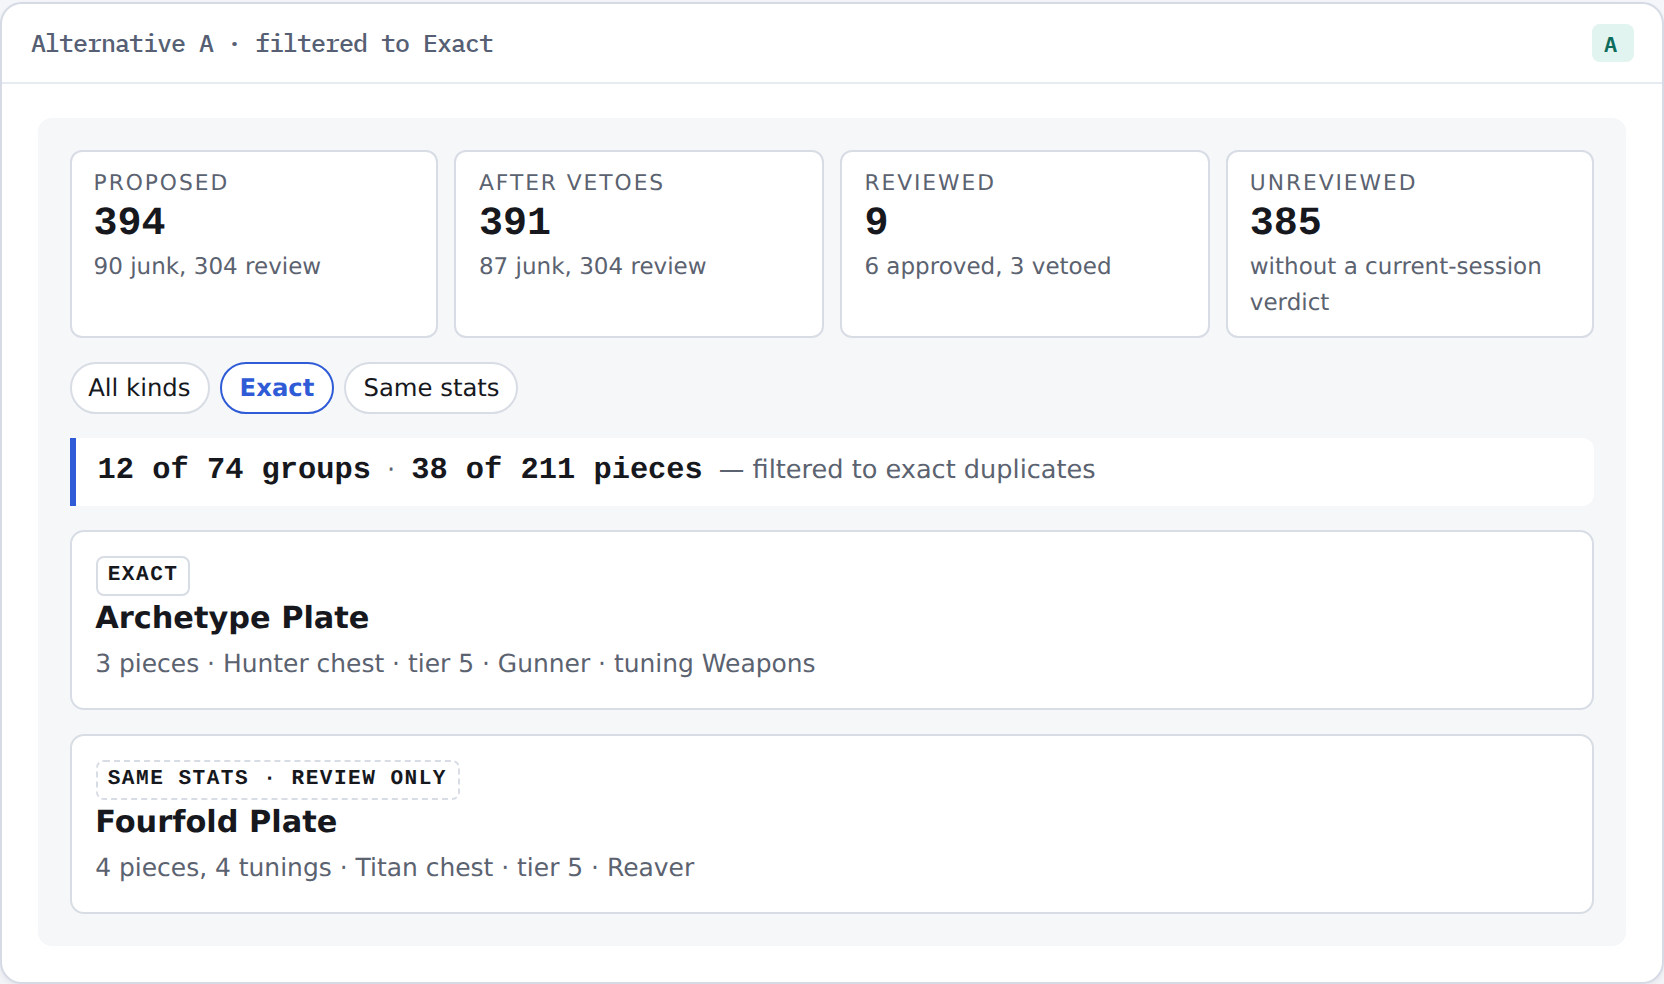
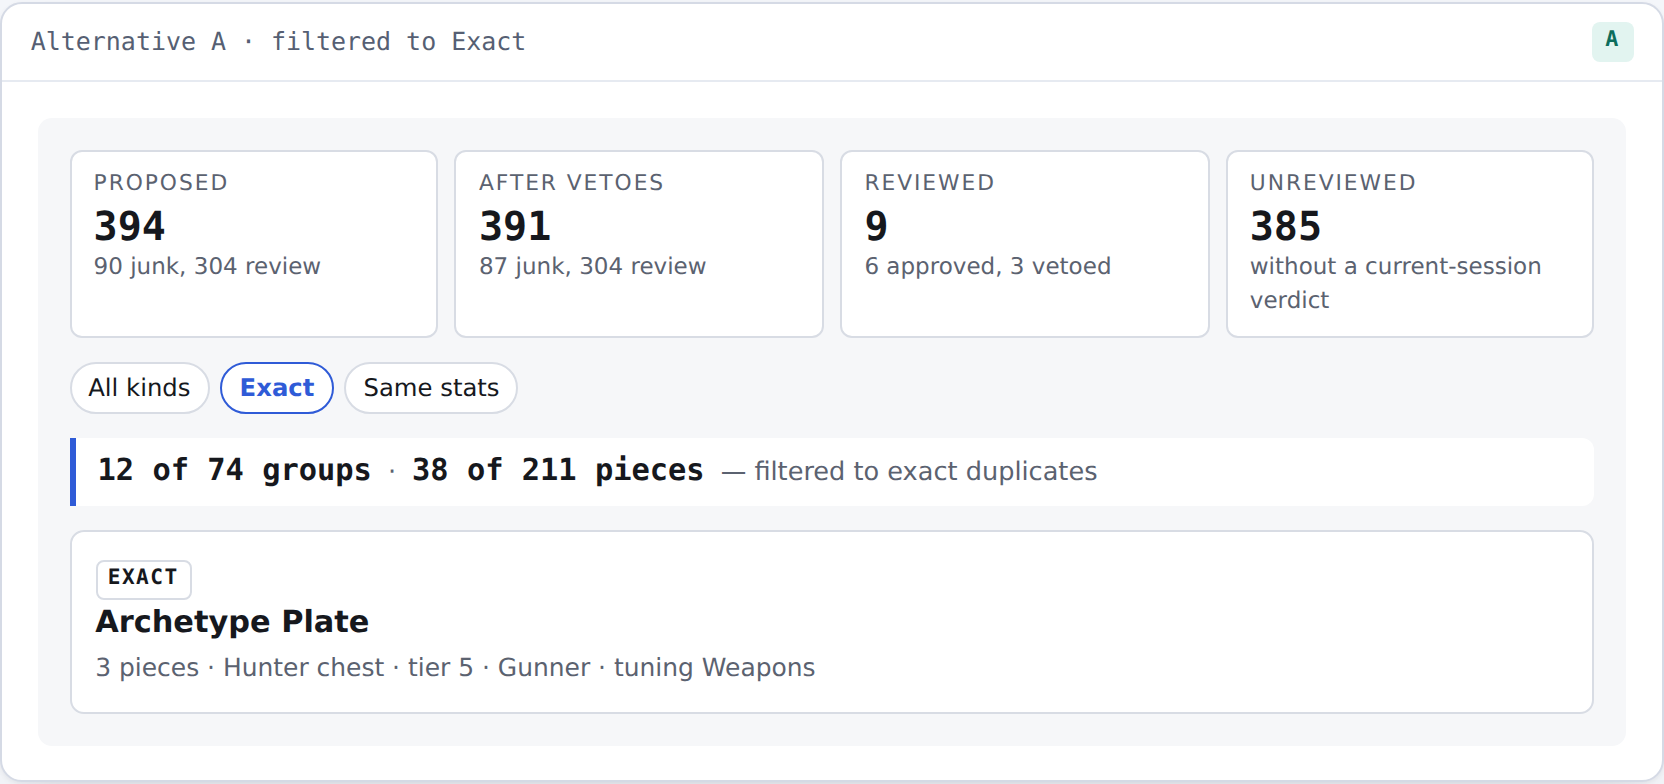
Fix specimen filter coherence and make the artifact standalone
The Exact-filtered specimens listed a same-stat group while claiming to
be filtered to exact duplicates -- a self-contradiction in a document
about filter and count coherence. Exact-filtered specimens now list only
exact groups; the kind hierarchy moved to a new unfiltered specimen,
which is the state where both kinds legitimately appear.

The committed HTML also carried the pre-correction banner copy and the
superseded denominator wording, so it contradicted the design record it
illustrates.

The file was authored for a publisher that supplies the document wrapper,
so committing it left no doctype (quirks mode) and a remote font request
on open. Now standalone: doctype, head, system font stacks, and no
network requests. Stills re-rendered to match.

diff --git a/docs/evidence/issue-113/count-treatments.html b/docs/evidence/issue-113/count-treatments.html
@@ -1,5 +1,11 @@
+<!doctype html>
+<html lang="en">
+<head>
+<meta charset="utf-8">
+<meta name="viewport" content="width=device-width,initial-scale=1">
 <title>Groups, Pieces, Proposals</title>
-<link rel="stylesheet" href="https://fonts.googleapis.com/css2?family=IBM+Plex+Sans:ital,wght@0,400;0,500;0,600;1,400&family=IBM+Plex+Mono:wght@400;500;600&display=swap">
+<!-- No external requests: this file is opened straight from the repo.
+     Type falls back through the stacks declared below. -->
 <style>
 /* ---- page chrome tokens: neutral biased toward the review UI's accent ---- */
 :root{
@@ -35,7 +41,7 @@
 *{box-sizing:border-box}
 body{
   background:var(--ground); color:var(--ink); margin:0;
-  font:400 15px/1.6 "IBM Plex Sans",ui-sans-serif,system-ui,sans-serif;
+  font:400 15px/1.6 ui-sans-serif,system-ui,-apple-system,"Segoe UI",sans-serif;
   -webkit-font-smoothing:antialiased;
 }
 .wrap{max-width:60rem;margin:0 auto;padding:3.5rem 1.5rem 6rem;
@@ -45,16 +51,16 @@ h1{font-size:2.1rem;font-weight:600;letter-spacing:-.02em}
 h2{font-size:1.4rem;font-weight:600;letter-spacing:-.015em}
 h3{font-size:1.02rem;font-weight:600}
 p{margin:0}
-code,.mono{font-family:"IBM Plex Mono",ui-monospace,SFMono-Regular,Menlo,monospace}
+code,.mono{font-family:ui-monospace,SFMono-Regular,Menlo,Consolas,monospace}
 code{font-size:.88em;background:var(--rule-soft);padding:.1em .35em;border-radius:3px}
 
-.eyebrow{font:600 .72rem/1 "IBM Plex Mono",monospace;letter-spacing:.13em;
+.eyebrow{font:600 .72rem/1 ui-monospace,SFMono-Regular,Menlo,monospace;letter-spacing:.13em;
   text-transform:uppercase;color:var(--muted)}
 header.top{display:flex;flex-direction:column;gap:.85rem;
   border-bottom:1px solid var(--rule);padding-bottom:2rem}
 header.top .lede{font-size:1.05rem;color:var(--muted);max-width:62ch}
 .meta{display:flex;flex-wrap:wrap;gap:.4rem .5rem;margin-top:.35rem}
-.tag{font:500 .72rem/1 "IBM Plex Mono",monospace;letter-spacing:.04em;
+.tag{font:500 .72rem/1 ui-monospace,SFMono-Regular,Menlo,monospace;letter-spacing:.04em;
   border:1px solid var(--rule);border-radius:99px;padding:.4em .7em;color:var(--muted)}
 
 section{display:flex;flex-direction:column;gap:1.1rem}
@@ -66,7 +72,7 @@ section{display:flex;flex-direction:column;gap:1.1rem}
 .ev{display:grid;grid-template-columns:repeat(auto-fit,minmax(13rem,1fr));gap:.75rem}
 .ev div{background:var(--card);border:1px solid var(--rule);border-radius:9px;
   padding:.9rem 1rem;display:flex;flex-direction:column;gap:.3rem;box-shadow:var(--shadow)}
-.ev .n{font:600 1.5rem/1 "IBM Plex Mono",monospace;font-variant-numeric:tabular-nums;
+.ev .n{font:600 1.5rem/1 ui-monospace,SFMono-Regular,Menlo,monospace;font-variant-numeric:tabular-nums;
   letter-spacing:-.02em}
 .ev .k{font-size:.82rem;color:var(--muted)}
 .ev .bad .n{color:var(--bad)}
@@ -76,8 +82,8 @@ section{display:flex;flex-direction:column;gap:1.1rem}
   overflow:hidden;box-shadow:var(--shadow)}
 .spec > figcaption{display:flex;align-items:center;justify-content:space-between;
   gap:1rem;padding:.6rem .9rem;border-bottom:1px solid var(--rule-soft);
-  font:500 .78rem/1.3 "IBM Plex Mono",monospace;color:var(--muted);flex-wrap:wrap}
-.spec .badge{font:600 .68rem/1 "IBM Plex Mono",monospace;letter-spacing:.08em;
+  font:500 .78rem/1.3 ui-monospace,SFMono-Regular,Menlo,monospace;color:var(--muted);flex-wrap:wrap}
+.spec .badge{font:600 .68rem/1 ui-monospace,SFMono-Regular,Menlo,monospace;letter-spacing:.08em;
   padding:.4em .6em;border-radius:4px;text-transform:uppercase}
 .badge.base{background:var(--rule-soft);color:var(--muted)}
 .badge.aa{background:var(--a-soft);color:var(--a)}
@@ -136,7 +142,7 @@ section{display:flex;flex-direction:column;gap:1.1rem}
 .cmp{width:100%;border-collapse:collapse;font-size:.9rem}
 .cmp th,.cmp td{text-align:left;padding:.6rem .7rem;border-bottom:1px solid var(--rule-soft);
   vertical-align:top}
-.cmp thead th{font:600 .72rem/1 "IBM Plex Mono",monospace;letter-spacing:.08em;
+.cmp thead th{font:600 .72rem/1 ui-monospace,SFMono-Regular,Menlo,monospace;letter-spacing:.08em;
   text-transform:uppercase;color:var(--muted);border-bottom:1px solid var(--rule)}
 .cmp .win{color:var(--a);font-weight:600}
 .cmp .lose{color:var(--muted)}
@@ -157,7 +163,8 @@ a{color:var(--brand)}
 :focus-visible{outline:3px solid var(--brand);outline-offset:2px;border-radius:3px}
 @media (max-width:640px){ .wrap{padding:2.5rem 1rem 4rem;gap:2.5rem} h1{font-size:1.7rem} }
 </style>
-
+</head>
+<body>
 <div class="wrap">
 
 <header class="top">
@@ -252,11 +259,6 @@ a{color:var(--brand)}
           <h4>Archetype Plate</h4>
           <p class="gsub">3 pieces · Hunter chest · tier 5 · Gunner · tuning Weapons</p>
         </div>
-        <div class="grp">
-          <span class="kind same">Same stats · review only</span>
-          <h4>Fourfold Plate</h4>
-          <p class="gsub">4 pieces, 4 tunings · Titan chest · tier 5 · Reaver</p>
-        </div>
       </div>
     </div>
   </figure>
@@ -295,20 +297,54 @@ a{color:var(--brand)}
           <h4>Archetype Plate</h4>
           <p class="gsub">Hunter chest · tier 5 · Gunner · tuning Weapons</p>
         </div>
-        <div class="grp">
-          <div class="chips" style="margin-bottom:.4rem">
-            <span class="pieces">4 pieces</span><span class="kind same">Same stats · review only</span>
-          </div>
-          <h4>Fourfold Plate</h4>
-          <p class="gsub">Titan chest · tier 5 · Reaver · 4 tunings</p>
-          <div class="banner">Base stats match but tuning differs, so this pass selects no survivor. Members carrying a proposal from the Proposals pass keep their verdict controls.</div>
-        </div>
       </div>
     </div>
   </figure>
 
   <p class="prose"><strong>Why it works.</strong> Scope is local, so it survives scrolling — the piece count sits on the group you are actually reading. The chips answer “how many of each kind” without clicking through. Nothing needs re-reading after a scroll.</p>
   <p class="prose"><strong>What it costs.</strong> The same numbers appear in three places and must agree; every one is a drift risk. Nothing answers “how big is this review” in one glance, and the tile row still asks the reader to notice that two tiles count groups and two count proposals.</p>
+</section>
+
+<!-- ============ BOTH KINDS ============ -->
+<section>
+  <div class="sec-head">
+    <span class="eyebrow">Alternatives A + B · shared</span>
+    <h2>Unfiltered, both kinds</h2>
+  </div>
+  <p class="prose">The kind hierarchy is the same under either treatment, so it is shown once, in the state where both kinds actually appear. Note the scope line drops "of" when nothing is filtered, and the banner's second sentence is present only because these members carry proposals.</p>
+
+  <figure class="spec">
+    <figcaption><span>Kind hierarchy · unfiltered · all kinds</span><span class="badge base">shared</span></figcaption>
+    <div class="stage">
+      <div class="vc">
+        <div class="chips">
+          <span class="chip" aria-pressed="true">All kinds</span>
+          <span class="chip" aria-pressed="false">Exact</span>
+          <span class="chip" aria-pressed="false">Same stats</span>
+        </div>
+        <div class="scope">
+          <span class="big">74 groups</span>
+          <span class="of">·</span>
+          <span class="big">211 pieces</span>
+        </div>
+        <div class="grp">
+          <div class="chips" style="margin-bottom:.4rem">
+            <span class="pieces">3 pieces</span><span class="kind">Exact</span>
+          </div>
+          <h4>Archetype Plate</h4>
+          <p class="gsub">Hunter chest · tier 5 · Gunner · tuning Weapons</p>
+        </div>
+        <div class="grp">
+          <div class="chips" style="margin-bottom:.4rem">
+            <span class="pieces">4 pieces</span><span class="kind same">Same stats · review only</span>
+          </div>
+          <h4>Fourfold Plate</h4>
+          <p class="gsub">Titan chest · tier 5 · Reaver · 4 tunings</p>
+          <div class="banner">Base stats match but tuning differs, so this pass selects no survivor. Pieces below that already carry a proposal keep their verdict controls.</div>
+        </div>
+      </div>
+    </div>
+  </figure>
 </section>
 
 <!-- ============ COMPARISON ============ -->
@@ -352,7 +388,7 @@ a{color:var(--brand)}
     <li><strong>Add</strong>, above the list, in one <code>aria-live="polite"</code> region:<br><code>12 of 74 groups · 38 of 211 pieces — filtered to exact duplicates</code><br>Unfiltered, the same region reads <code>74 groups · 211 pieces</code> with no “of”.</li>
     <li><strong>Group header gains</strong> a piece count as its first element: <code>3 pieces</code> — the noun is <em>pieces</em> everywhere; <code>copies</code>, <code>items</code> and <code>members</code> are retired from user-facing text.</li>
     <li><strong>Kind label</strong> becomes <code>Exact</code> / <code>Same stats · review only</code>. The current <code>"Exact duplicate group · " + group.groupKind</code> — which renders <code>Exact duplicate group · exact_duplicate</code> — goes away.</li>
-    <li><strong>Same-stat banner</strong> replaces the bare sub-line, and is conditional:<br><code>Base stats match but tuning differs, so this pass selects no survivor. Members carrying a proposal from the Proposals pass keep their verdict controls.</code></li>
+    <li><strong>Same-stat banner</strong> replaces the bare sub-line, in two parts. Unconditional, because it is always true of a same-stat group:<br><code>Base stats match but tuning differs, so this pass selects no survivor.</code><br>Appended only when at least one member carries a proposal:<br><code>Pieces below that already carry a proposal keep their verdict controls.</code></li>
     <li><strong>Facet options</strong> state their noun when it is not groups: <code>Melee (1 group)</code>, so the tuning facet's member-derived count stops reading as a group count.</li>
   </ol>
 
@@ -370,8 +406,9 @@ a{color:var(--brand)}
     <li><strong>Out of scope, already split:</strong> per-group bulk verdicts (#115), an armor score column (#116), the DIM query builder (#117). None is presupposed by either treatment.</li>
     <li><strong>Baseline defects (#118)</strong> are fixed independently. Two were found only by rendering: the group <code>&lt;h3&gt;</code> has no <code>overflow-wrap</code>, so a 180-character item name gives the page a 2266px scroll width at a 390px viewport; and the report fingerprint does the same at 549px.</li>
     <li><strong>Open — does the piece count include the survivor?</strong> “3 pieces” on an exact group counts the survivor plus two candidates. A reviewer scanning for work to do may read it as three deletions. Consider <code>3 pieces · 2 proposed</code>, at the cost of a fourth number.</li>
-    <li><strong>Open — what is a “piece” in a filtered view?</strong> The 38 in <code>38 of 211 pieces</code> is members of shown groups, not pieces matching the filter. Those differ once member-level filters exist.</li>
+    <li><strong>Open — what is a “piece” in a filtered view?</strong> Both figures count group members and are measured identically today, so the ratio is sound: 211 is the members of all 74 groups, 38 the members of the 12 shown, and pieces in no duplicate group are counted by neither. But the kind filter selects whole <em>groups</em>, so a future member-level filter would select <em>members</em> — at which point the two stop agreeing.</li>
     <li><strong>Open — should the summary line pin to the top on scroll?</strong> It would erase A's only real weakness, at the cost of vertical space already scarce at 390px.</li>
+    <li><strong>Preserve one thing the old line did well:</strong> the empty state renders <code>Showing 0 of 2 groups</code>, the single case where the already-filtered denominator is genuinely informative. The replacement must keep that. The empty message also names no filter and offers no way to widen.</li>
     <li><strong>Not verified:</strong> both treatments are specimens, not the running app. Contrast, focus order and live-region announcement need checking against the real build during #119.</li>
   </ul>
 </section>
@@ -381,3 +418,5 @@ a{color:var(--brand)}
 </footer>
 
 </div>
+</body>
+</html>

diff --git a/WORKLOG.md b/WORKLOG.md
@@ -50,6 +50,29 @@ surprises the next agent should know about.
   theming, and zero-base-stat suppression. An earlier code-only reading had
   wrongly flagged all four; rendering corrected it.
 
+## 2026-09-02 — #113 second review round: specimen coherence
+
+- **The Exact-filtered specimens listed a same-stat group.** Both alternatives
+  were captioned "filtered to Exact", set the Exact chip pressed, and carried a
+  scope line reading "filtered to exact duplicates" — while rendering a
+  `Same stats · review only` group underneath. A self-contradiction, in a
+  document whose subject is filter and count coherence. Exact-filtered specimens
+  now list only exact groups, and the kind hierarchy moved to a new unfiltered
+  specimen, which is the state where both kinds legitimately appear. Added a
+  rendering assertion for it rather than trusting the eye.
+- The committed `count-treatments.html` still carried the pre-correction banner
+  copy and the superseded denominator wording, so it contradicted the design
+  record it illustrates. Synced.
+- Made that file a standalone document: it had been authored for a publisher
+  that supplies the wrapper, so committing it as-is left no doctype and put it
+  in quirks mode. It also pulled fonts from a remote host on open. Now has a
+  doctype and head, uses system font stacks, and makes zero network requests —
+  verified by asserting no non-`file://` request during render. Stills
+  re-rendered so they match.
+- **Worth knowing:** an artifact authored for one delivery target is not
+  automatically fit to commit. Doctype, wrapper elements, and remote assets are
+  all supplied by a publisher and all absent from the repo copy.
+
 ## 2026-09-02 — #113 PR review corrections
 
 - **Banner logic error, caught in review.** The specified same-stat banner was

diff --git a/docs/evidence/issue-113/README.md b/docs/evidence/issue-113/README.md
@@ -26,7 +26,13 @@ for, in both appearances.
 
 Proposed treatments, for comparison against the baseline above:
 `alternative-a-scoped-summary-line.png`, `alternative-b-distributed-counts.png`,
-and the interactive `count-treatments.html`.
+`kind-hierarchy-unfiltered.png`, and `count-treatments.html`, which carries the
+full criterion-by-criterion comparison. That file is a standalone document —
+open it straight from the repo; it makes no network requests and uses system
+font stacks, so the stills above match what it renders.
+
+The two alternative stills are both shown filtered to Exact, so each lists only
+exact groups; the kind hierarchy is shown once, unfiltered, in the third.
 
 The mixed export is the two committed fixtures concatenated: one exact
 duplicate group of three members, one same-stat group of four. The hostile
